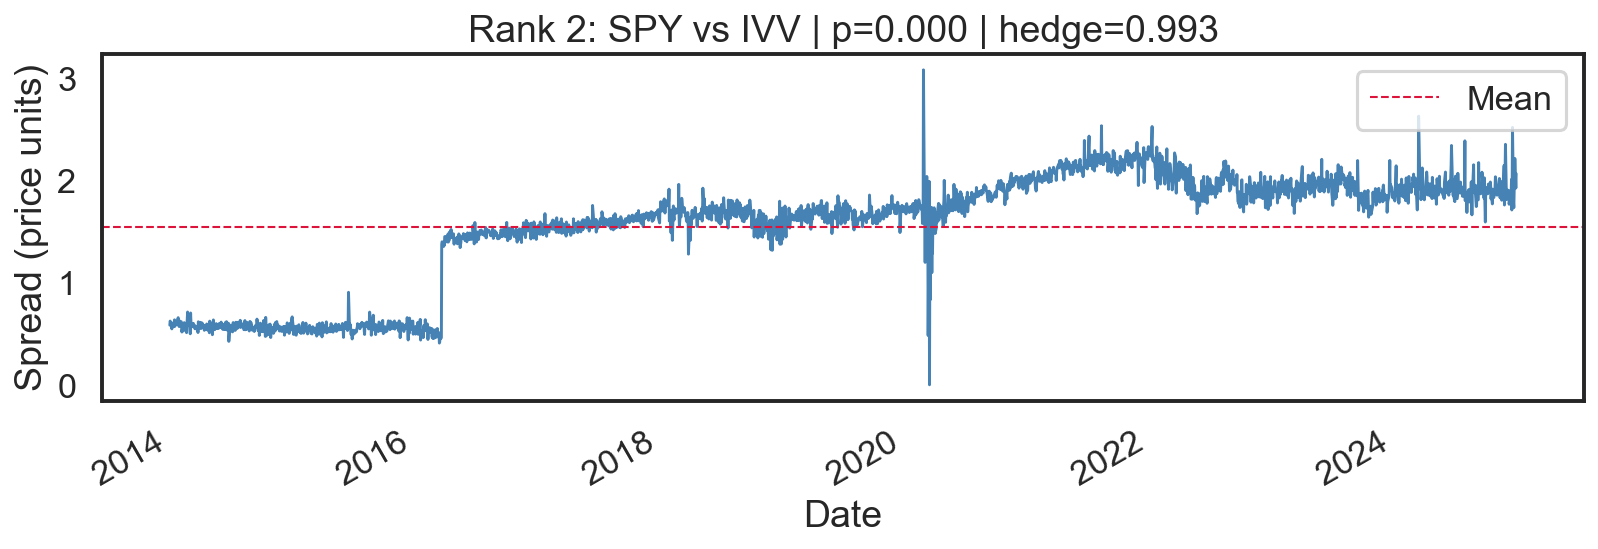
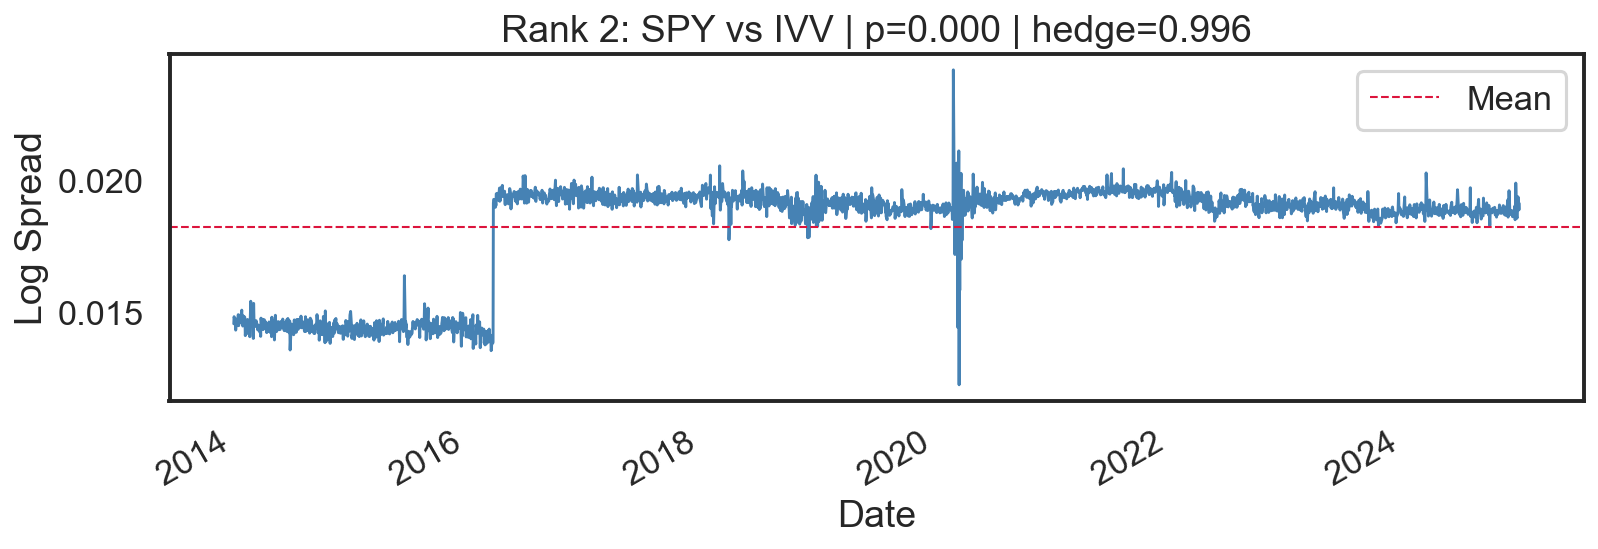
fix: use log spread in visualization to match Engle-Granger model

diff --git a/src/pairs_trading_etf/cointegration/engle_granger.py b/src/pairs_trading_etf/cointegration/engle_granger.py
@@ -107,6 +107,8 @@ def run_engle_granger(
     )
 
     hedge_ratio = float(np.polyfit(aligned_y, aligned_x, 1)[0])
+    # Spread is computed on log prices (if use_log=True was set earlier)
+    # aligned_x and aligned_y are already log-transformed at this point
     spread = aligned_x - hedge_ratio * aligned_y
     half_life = _estimate_half_life(spread)
 
